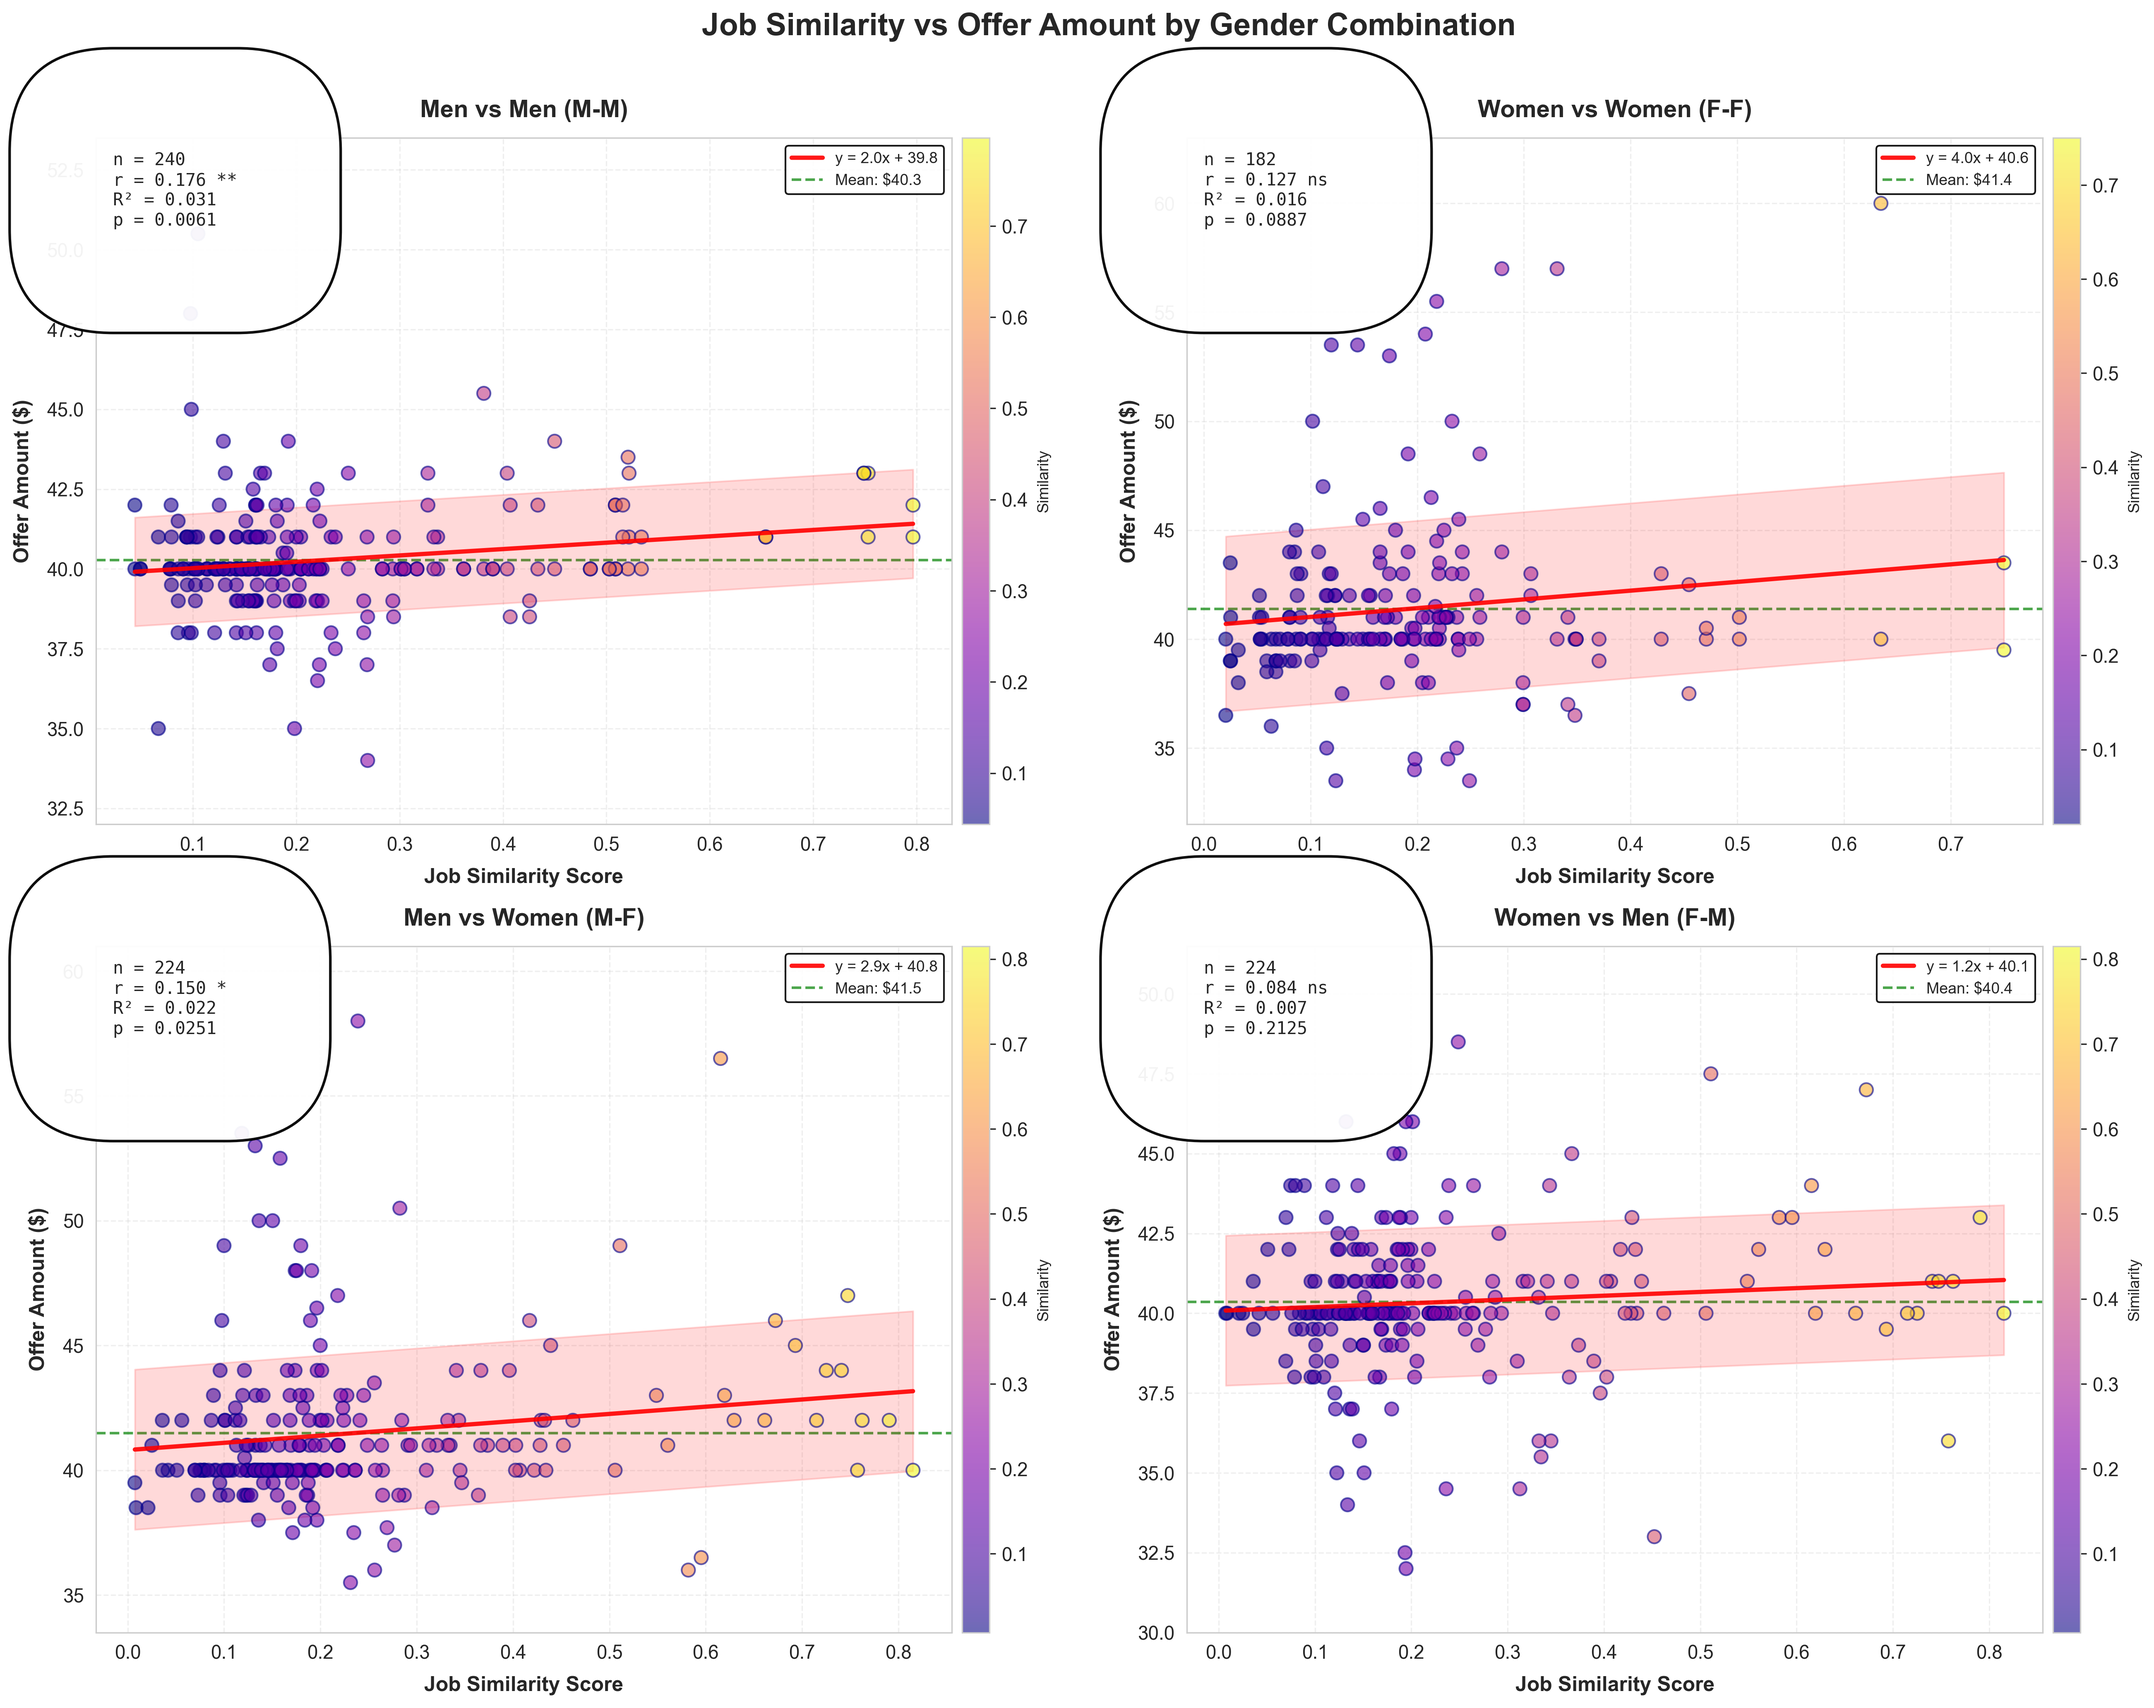
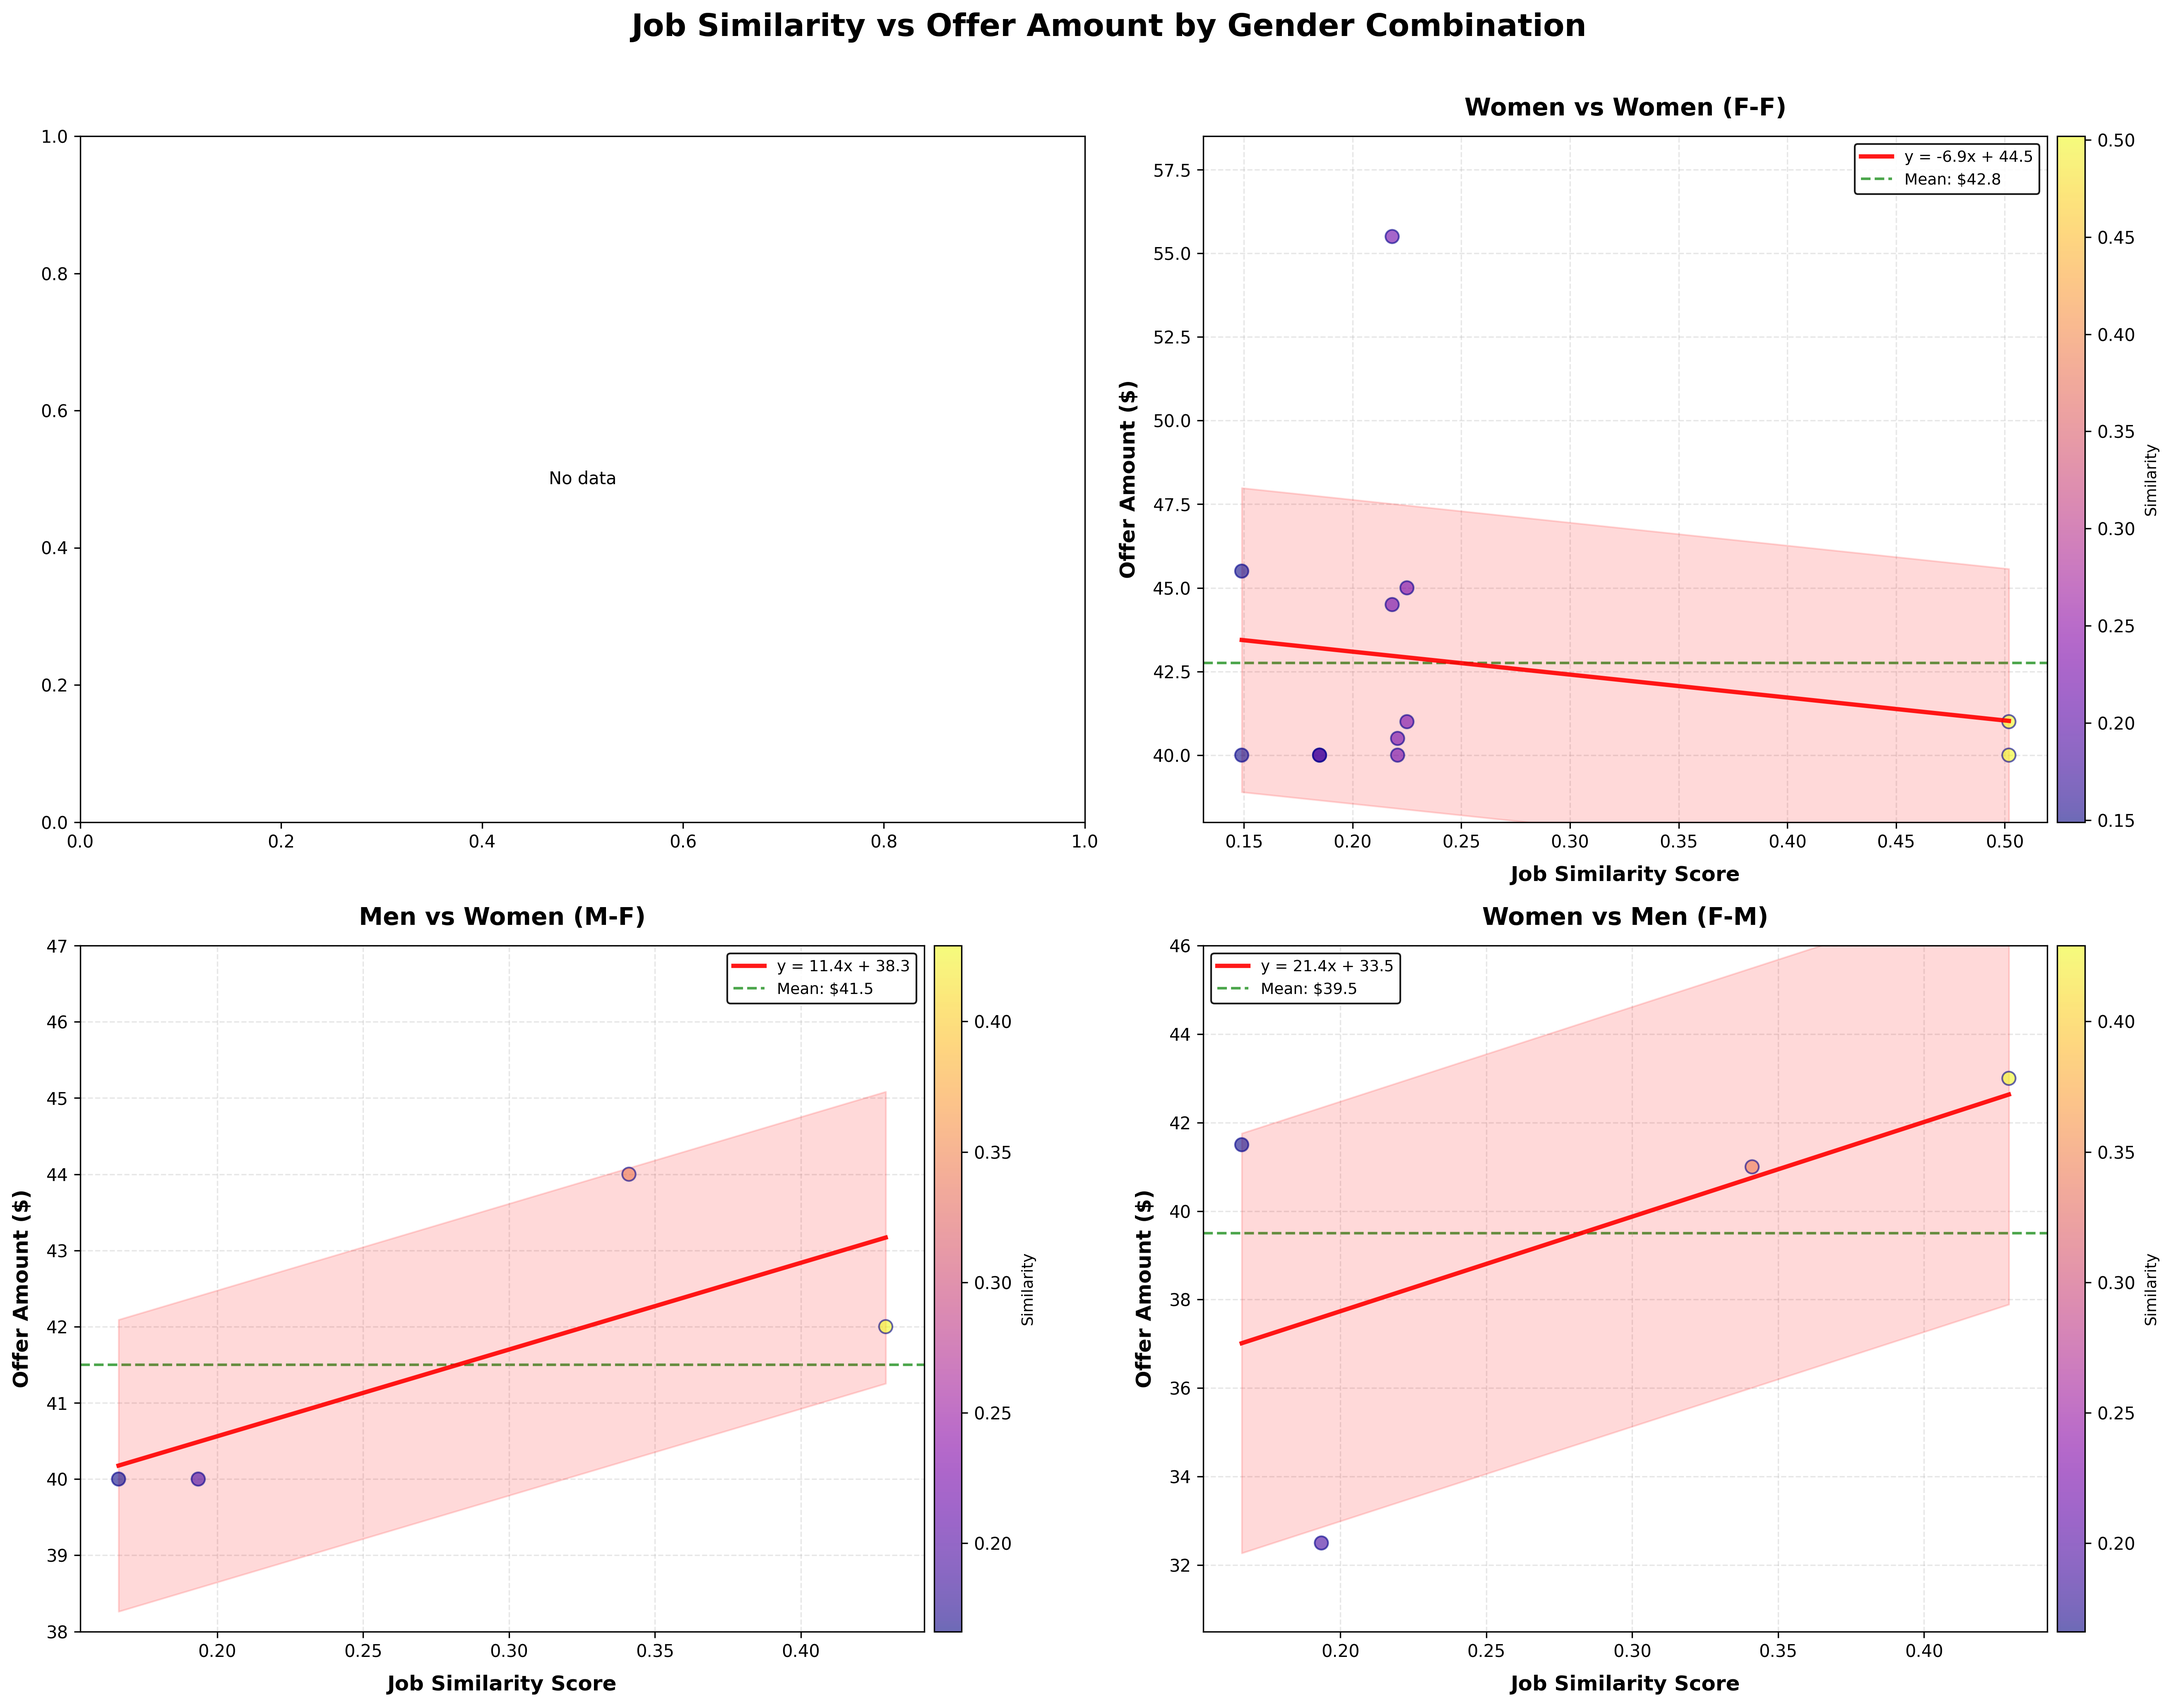
Remove regression stats bubble from gender analysis figure

diff --git a/analyze_job_similarity_offers.py b/analyze_job_similarity_offers.py
@@ -627,23 +627,6 @@ def create_gender_visualizations(df: pd.DataFrame, output_dir: str = "visualizat
         ax.fill_between(x_line, y_line - y_std, y_line + y_std, 
                         alpha=0.15, color='red', zorder=2)
         
-        # Add statistics text box
-        sig_text = "***" if p_value < 0.001 else "**" if p_value < 0.01 else "*" if p_value < 0.05 else "ns"
-        info_text = f'n = {len(df_gender)}\n'
-        info_text += f'r = {correlation:.3f} {sig_text}\n'
-        info_text += f'R² = {r_squared:.3f}\n'
-        info_text += f'p = {p_value:.4f}'
-        
-        ax.text(0.02, 0.98, info_text,
-               transform=ax.transAxes,
-               fontsize=10,
-               verticalalignment='top',
-               horizontalalignment='left',
-               bbox=dict(boxstyle='round', facecolor='white', edgecolor='black', 
-                        linewidth=1.5, alpha=0.95, pad=6),
-               family='monospace',
-               zorder=5)
-        
         # Add mean offer annotation
         mean_offer = df_gender['offer'].mean()
         ax.axhline(mean_offer, color='green', linestyle='--', linewidth=1.5, 
